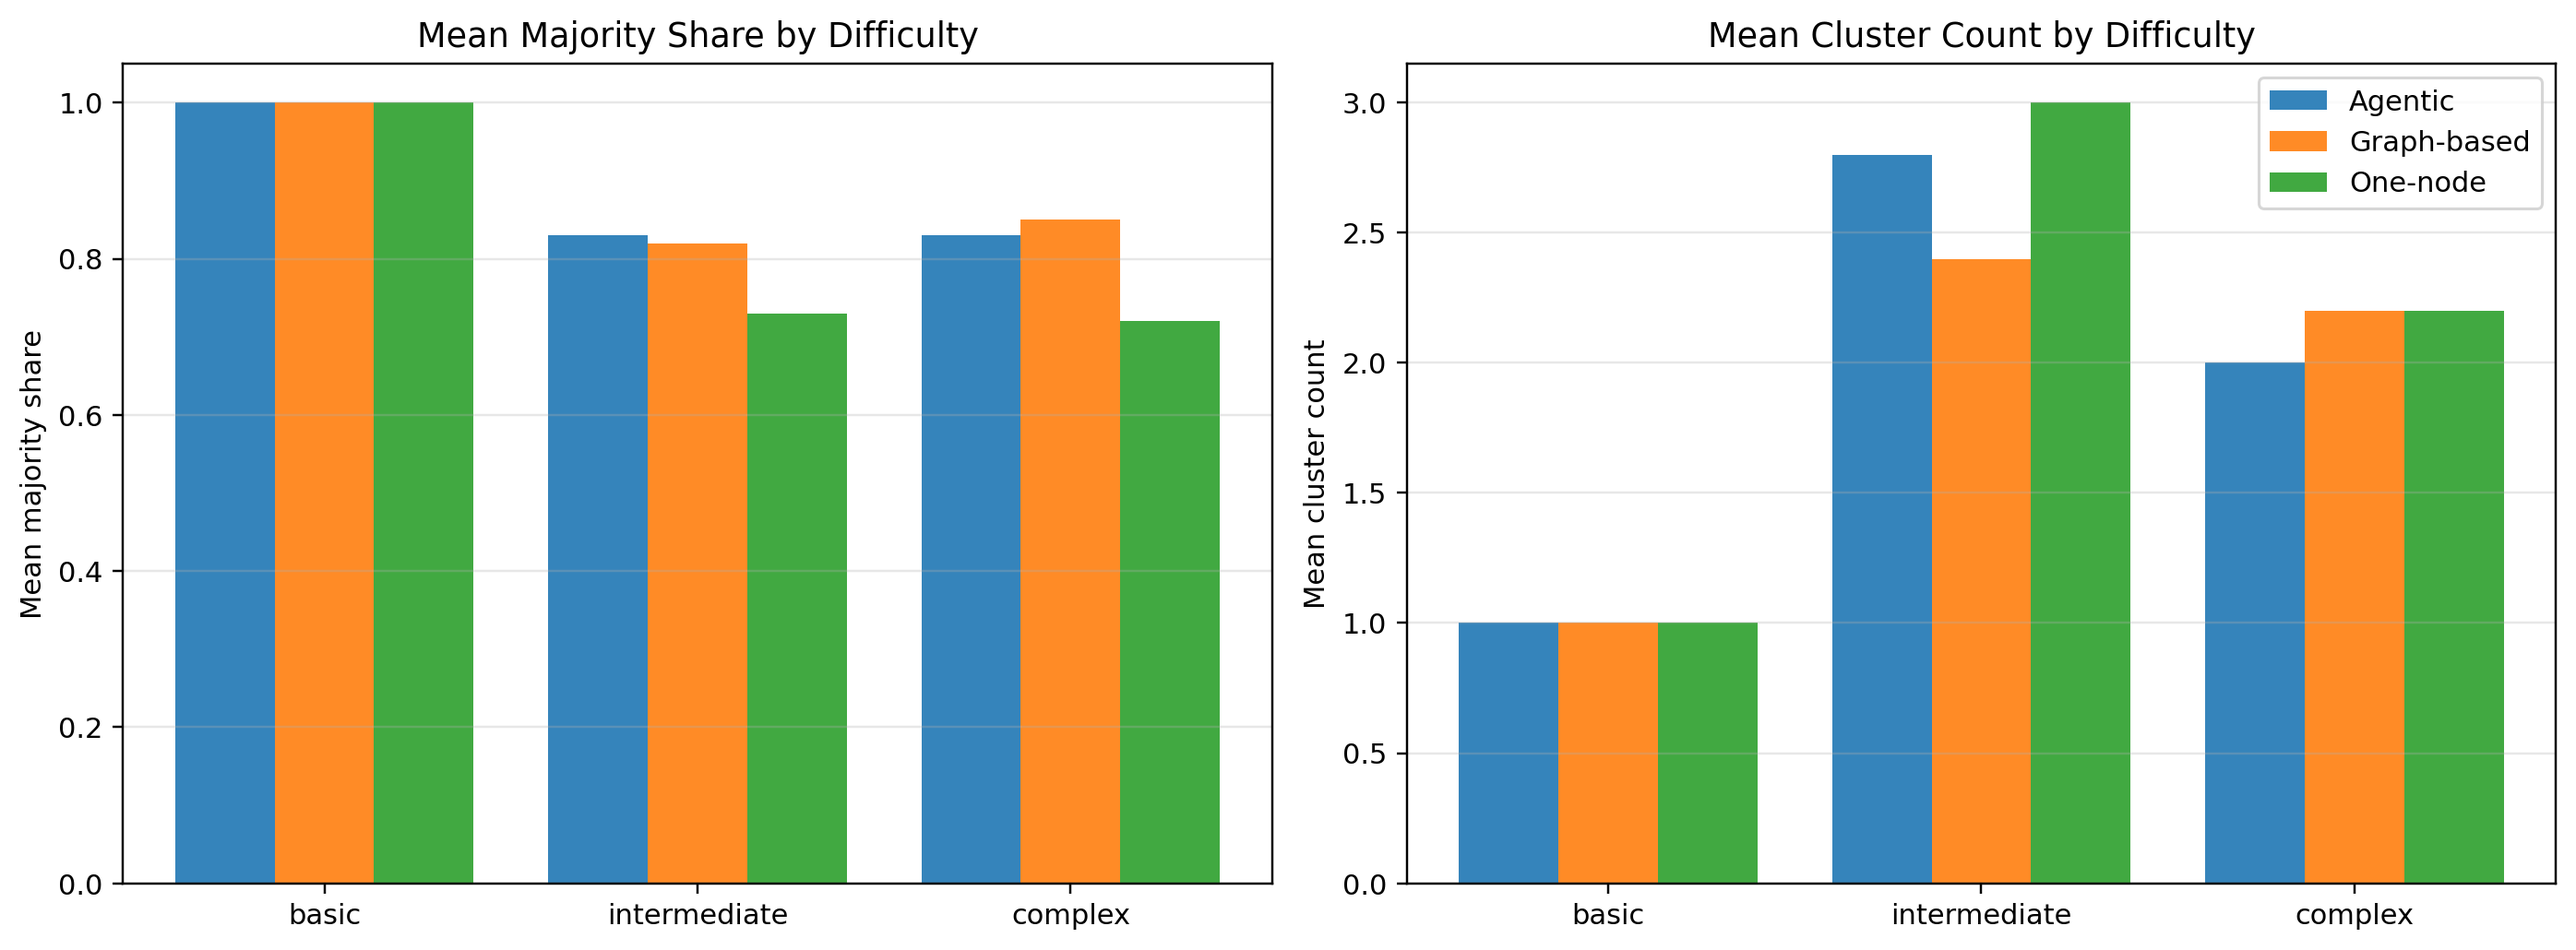
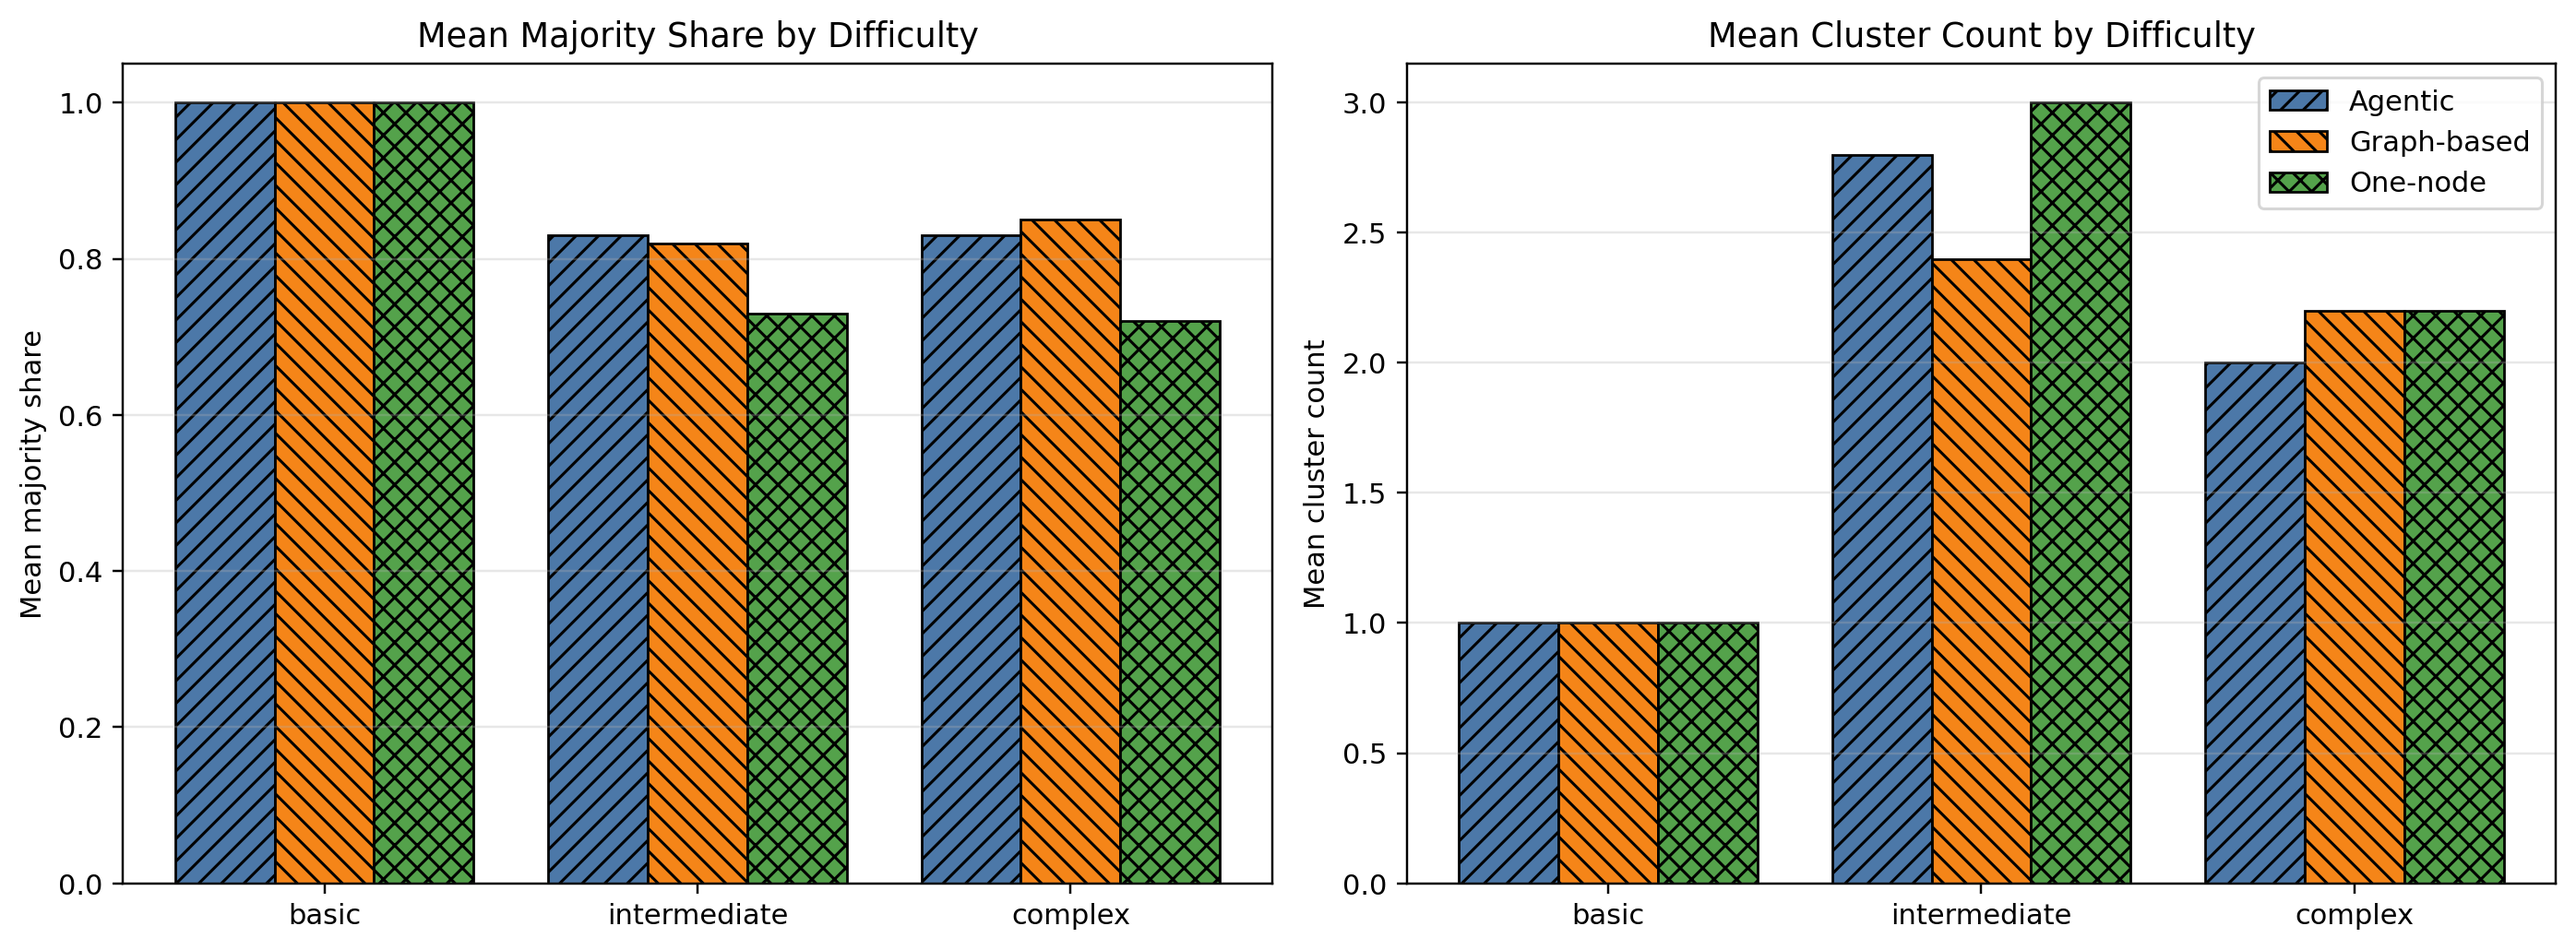
colorblind plots

diff --git a/app/rq3_clustering/plots.py b/app/rq3_clustering/plots.py
@@ -52,6 +52,16 @@ def generate_plots(
 
     out_dir.mkdir(parents=True, exist_ok=True)
     written_paths: list[Path] = []
+    arch_hatches = {
+        "Agentic": "///",
+        "Graph-based": "\\\\\\",
+        "One-node": "xxx",
+    }
+    arch_fills = {
+        "Agentic": "#4C78A8",
+        "Graph-based": "#F58518",
+        "One-node": "#54A24B",
+    }
 
     def _save(fig, filename: str) -> None:
         fig.tight_layout()
@@ -69,13 +79,21 @@ def generate_plots(
     labels = overall["arch_label"].tolist()
 
     metrics = [
-        ("mean_majority_cluster_share", "Mean Majority Share", (0, 1.05), "#1f77b4"),
-        ("perfect_consensus_rate", "Perfect Consensus Rate", (0, 1.05), "#2ca02c"),
-        ("mean_cluster_count", "Mean Cluster Count", None, "#ff7f0e"),
+        ("mean_majority_cluster_share", "Mean Majority Share", (0, 1.05)),
+        ("perfect_consensus_rate", "Perfect Consensus Rate", (0, 1.05)),
+        ("mean_cluster_count", "Mean Cluster Count", None),
     ]
-    for ax, (column, title, ylim, color) in zip(axes, metrics):
+    for ax, (column, title, ylim) in zip(axes, metrics):
         values = pd.to_numeric(overall[column], errors="coerce").fillna(0).to_numpy()
-        ax.bar(x, values, color=color, alpha=0.9)
+        bars = ax.bar(
+            x,
+            values,
+            color=[arch_fills.get(label, "#bdbdbd") for label in labels],
+            edgecolor="black",
+            linewidth=1.0,
+        )
+        for bar, label in zip(bars, labels):
+            bar.set_hatch(arch_hatches.get(label, "///"))
         ax.set_xticks(x, labels, rotation=15, ha="right")
         ax.set_title(title)
         ax.grid(axis="y", alpha=0.3)
@@ -129,13 +147,21 @@ def generate_plots(
 
     x = np.arange(len(prompt_order))
     width = 0.8 / max(len(arch_order), 1)
-    colors = ["#1f77b4", "#ff7f0e", "#2ca02c", "#9467bd", "#8c564b"]
-
     fig, ax = plt.subplots(figsize=(max(10, len(prompt_order) * 0.75), 4.8))
     for idx, arch_label in enumerate(arch_order):
         values = pd.to_numeric(majority_pivot[arch_label], errors="coerce").fillna(0).to_numpy()
         offset = (idx - (len(arch_order) - 1) / 2) * width
-        ax.bar(x + offset, values, width=width, label=arch_label, color=colors[idx % len(colors)], alpha=0.9)
+        bars = ax.bar(
+            x + offset,
+            values,
+            width=width,
+            label=arch_label,
+            color=arch_fills.get(arch_label, "#bdbdbd"),
+            edgecolor="black",
+            linewidth=0.9,
+        )
+        for bar in bars:
+            bar.set_hatch(arch_hatches.get(arch_label, "///"))
     ax.set_xticks(x, prompt_order)
     ax.set_ylim(0, 1.05)
     ax.set_ylabel("Majority cluster share")
@@ -148,7 +174,17 @@ def generate_plots(
     for idx, arch_label in enumerate(arch_order):
         values = pd.to_numeric(cluster_count_pivot[arch_label], errors="coerce").fillna(0).to_numpy()
         offset = (idx - (len(arch_order) - 1) / 2) * width
-        ax.bar(x + offset, values, width=width, label=arch_label, color=colors[idx % len(colors)], alpha=0.9)
+        bars = ax.bar(
+            x + offset,
+            values,
+            width=width,
+            label=arch_label,
+            color=arch_fills.get(arch_label, "#bdbdbd"),
+            edgecolor="black",
+            linewidth=0.9,
+        )
+        for bar in bars:
+            bar.set_hatch(arch_hatches.get(arch_label, "///"))
     ax.set_xticks(x, prompt_order)
     ax.set_ylabel("Reviewed cluster count")
     ax.set_title("RQ3 Reviewed Cluster Count by Prompt")
@@ -160,7 +196,7 @@ def generate_plots(
         figsize=(max(8, len(prompt_order) * 0.9), max(3.5, len(arch_order) * 0.8 + 1.2))
     )
     heat = majority_pivot.T
-    im = ax.imshow(heat.to_numpy(), vmin=0, vmax=1, cmap="YlGnBu", aspect="auto")
+    im = ax.imshow(heat.to_numpy(), vmin=0, vmax=1, cmap="Greys", aspect="auto")
     ax.set_xticks(range(len(heat.columns)), labels=[str(value) for value in heat.columns], rotation=0)
     ax.set_yticks(range(len(heat.index)), labels=[str(value) for value in heat.index])
     ax.set_title("RQ3 Reviewed Majority Share Heatmap")
@@ -169,7 +205,7 @@ def generate_plots(
     for row_idx in range(heat.shape[0]):
         for col_idx in range(heat.shape[1]):
             value = float(heat.iloc[row_idx, col_idx])
-            text_color = "white" if value >= 0.6 else "black"
+            text_color = "white" if value >= 0.55 else "black"
             ax.text(col_idx, row_idx, f"{value:.2f}", ha="center", va="center", fontsize=8, color=text_color)
     _save(fig, "RQ3_clustering_reviewed_majority_share_heatmap")
 
@@ -198,14 +234,17 @@ def generate_plots(
                 for diff in difficulty_order
             ]
             offset = (idx - (len(arch_order) - 1) / 2) * width
-            ax.bar(
+            bars = ax.bar(
                 x + offset,
                 values,
                 width=width,
                 label=arch_label,
-                color=colors[idx % len(colors)],
-                alpha=0.9,
+                color=arch_fills.get(arch_label, "#bdbdbd"),
+                edgecolor="black",
+                linewidth=0.9,
             )
+            for bar in bars:
+                bar.set_hatch(arch_hatches.get(arch_label, "///"))
         ax.set_xticks(x, difficulty_order)
         ax.set_ylabel(ylabel)
         ax.set_title(title)
